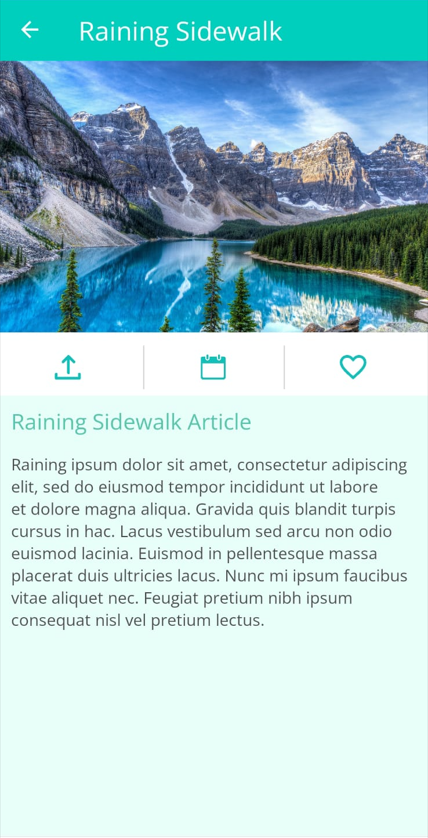
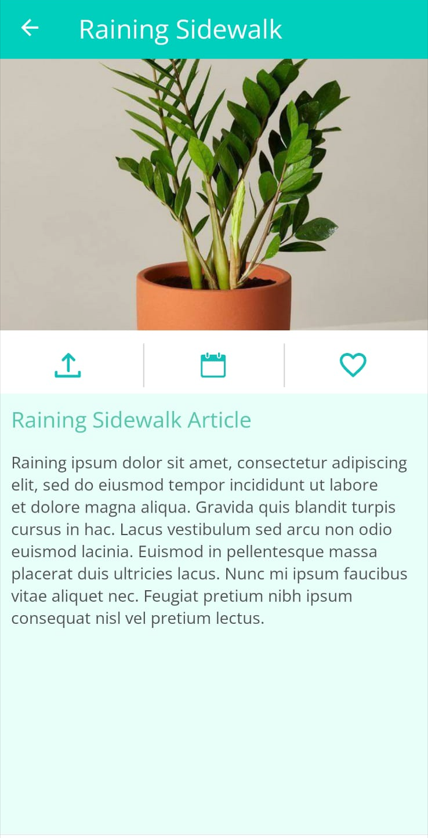
[FIX] Carrousel View

diff --git a/MusicApp/Views/SongDetailsPage.xaml b/MusicApp/Views/SongDetailsPage.xaml
@@ -10,16 +10,19 @@
     <ContentPage.Content>
         <Frame Padding="0" Margin="0,0" HeightRequest="190" WidthRequest="10" HasShadow="False">
             <StackLayout>
-                <CarouselView ItemsSource="{Binding CarrouselImages}" HeightRequest="500">
+                <CarouselView ItemsSource="{Binding SongImages}" HeightRequest="500" IndicatorView="indicatorView">
                     <CarouselView.ItemTemplate>
                         <DataTemplate>
                             <Image HorizontalOptions="CenterAndExpand" Source="{Binding}" Aspect="AspectFill"/>
                         </DataTemplate>
                     </CarouselView.ItemTemplate>
                 </CarouselView>
-                <RelativeLayout HorizontalOptions="FillAndExpand" VerticalOptions="Start">
-                    
-                </RelativeLayout>
+                <IndicatorView x:Name="indicatorView"
+                   Margin="0,0,0,0"
+                   IndicatorColor="LightGray"
+                   SelectedIndicatorColor="#10ad89"
+                   HorizontalOptions="Center">
+                </IndicatorView>
                 <Grid ColumnDefinitions="*" RowDefinitions="Auto" HorizontalOptions="CenterAndExpand">
                     <Grid Grid.Row="0" Grid.Column="0" HorizontalOptions="End" Margin="50,0,0,0">
                         <Image Source="fileUpload.png" Aspect="AspectFill" HeightRequest="40" WidthRequest="40" />

diff --git a/MusicApp/ViewModels/TodayViewModel.cs b/MusicApp/ViewModels/TodayViewModel.cs
@@ -44,6 +44,7 @@ namespace MusicApp.ViewModels
                 { "SongImage", selectedSong.Image },
                 { "SongSubtitle", selectedSong.Subtitle },
                 { "SongDescription", selectedSong.Description },
+                { "SongImages" , selectedSong.SongImages }
             };
 
             await NavigationService.NavigateAsync(NavigationConstants.SongDetails, navigationParameters);
@@ -64,10 +65,10 @@ namespace MusicApp.ViewModels
         {
             NewMusicList = new ObservableCollection<Song>
             {
-                new Song("Raining Sidewalk", "https://budsnblush.com/wp-content/uploads/2017/07/774db0706fde747de6a1e0965addc0d5_compress62.jpg", "5 mins", "Raining Sidewalk Article", "Raining ipsum dolor sit amet, consectetur adipiscing elit, sed do eiusmod tempor incididunt ut labore et dolore magna aliqua. Gravida quis blandit turpis cursus in hac. Lacus vestibulum sed arcu non odio euismod lacinia. Euismod in pellentesque massa placerat duis ultricies lacus. Nunc mi ipsum faucibus vitae aliquet nec. Feugiat pretium nibh ipsum consequat nisl vel pretium lectus."),
-                new Song("Spring Morning", "https://www.poynter.org/wp-content/uploads/2019/07/shutterstock_264132746-1500x1017.jpg", "10 mins", "Spring Morning Article", "Spring ipsum dolor sit amet, consectetur adipiscing elit, sed do eiusmod tempor incididunt ut labore et dolore magna aliqua. Gravida quis blandit turpis cursus in hac. Lacus vestibulum sed arcu non odio euismod lacinia. Euismod in pellentesque massa placerat duis ultricies lacus. Nunc mi ipsum faucibus vitae aliquet nec. Feugiat pretium nibh ipsum consequat nisl vel pretium lectus."),
-                new Song("First Smile", "https://juanbustos.com/wp-content/uploads/2020/01/jb-camgirl-1.jpg", "3 mins", "First Smile Inspiration", "First ipsum dolor sit amet, consectetur adipiscing elit, sed do eiusmod tempor incididunt ut labore et dolore magna aliqua. Gravida quis blandit turpis cursus in hac. Lacus vestibulum sed arcu non odio euismod lacinia. Euismod in pellentesque massa placerat duis ultricies lacus. Nunc mi ipsum faucibus vitae aliquet nec. Feugiat pretium nibh ipsum consequat nisl vel pretium lectus."),
-                new Song("Amazing Grace", "https://www.incimages.com/uploaded_files/image/1920x1080/getty_74956750_9709709704500404_43668.jpg", "15 mins", "The great Grace of God", "Grace ipsum dolor sit amet, consectetur adipiscing elit, sed do eiusmod tempor incididunt ut labore et dolore magna aliqua. Gravida quis blandit turpis cursus in hac. Lacus vestibulum sed arcu non odio euismod lacinia. Euismod in pellentesque massa placerat duis ultricies lacus. Nunc mi ipsum faucibus vitae aliquet nec. Feugiat pretium nibh ipsum consequat nisl vel pretium lectus.")
+                new Song("Raining Sidewalk", "https://budsnblush.com/wp-content/uploads/2017/07/774db0706fde747de6a1e0965addc0d5_compress62.jpg", "5 mins", "Raining Sidewalk Article", "Raining ipsum dolor sit amet, consectetur adipiscing elit, sed do eiusmod tempor incididunt ut labore et dolore magna aliqua. Gravida quis blandit turpis cursus in hac. Lacus vestibulum sed arcu non odio euismod lacinia. Euismod in pellentesque massa placerat duis ultricies lacus. Nunc mi ipsum faucibus vitae aliquet nec. Feugiat pretium nibh ipsum consequat nisl vel pretium lectus.", new string[]{ "https://budsnblush.com/wp-content/uploads/2017/07/774db0706fde747de6a1e0965addc0d5_compress62.jpg", "CarrouselImage1.png", "CarrouselImage2.png" }),
+                new Song("Spring Morning", "https://www.poynter.org/wp-content/uploads/2019/07/shutterstock_264132746-1500x1017.jpg", "10 mins", "Spring Morning Article", "Spring ipsum dolor sit amet, consectetur adipiscing elit, sed do eiusmod tempor incididunt ut labore et dolore magna aliqua. Gravida quis blandit turpis cursus in hac. Lacus vestibulum sed arcu non odio euismod lacinia. Euismod in pellentesque massa placerat duis ultricies lacus. Nunc mi ipsum faucibus vitae aliquet nec. Feugiat pretium nibh ipsum consequat nisl vel pretium lectus.", new string[]{ "https://www.poynter.org/wp-content/uploads/2019/07/shutterstock_264132746-1500x1017.jpg", "CarrouselImage1.png", "CarrouselImage2.png" }),
+                new Song("First Smile", "https://juanbustos.com/wp-content/uploads/2020/01/jb-camgirl-1.jpg", "3 mins", "First Smile Inspiration", "First ipsum dolor sit amet, consectetur adipiscing elit, sed do eiusmod tempor incididunt ut labore et dolore magna aliqua. Gravida quis blandit turpis cursus in hac. Lacus vestibulum sed arcu non odio euismod lacinia. Euismod in pellentesque massa placerat duis ultricies lacus. Nunc mi ipsum faucibus vitae aliquet nec. Feugiat pretium nibh ipsum consequat nisl vel pretium lectus.", new string[]{ "https://juanbustos.com/wp-content/uploads/2020/01/jb-camgirl-1.jpg", "CarrouselImage1.png", "CarrouselImage2.png" }),
+                new Song("Amazing Grace", "https://www.incimages.com/uploaded_files/image/1920x1080/getty_74956750_9709709704500404_43668.jpg", "15 mins", "The great Grace of God", "Grace ipsum dolor sit amet, consectetur adipiscing elit, sed do eiusmod tempor incididunt ut labore et dolore magna aliqua. Gravida quis blandit turpis cursus in hac. Lacus vestibulum sed arcu non odio euismod lacinia. Euismod in pellentesque massa placerat duis ultricies lacus. Nunc mi ipsum faucibus vitae aliquet nec. Feugiat pretium nibh ipsum consequat nisl vel pretium lectus.", new string[]{ "https://www.incimages.com/uploaded_files/image/1920x1080/getty_74956750_9709709704500404_43668.jpg", "CarrouselImage1.png", "CarrouselImage2.png" })
             };
         }
 

diff --git a/MusicApp/ViewModels/SongDetailsViewModel.cs b/MusicApp/ViewModels/SongDetailsViewModel.cs
@@ -12,13 +12,14 @@ namespace MusicApp.ViewModels
     {
         public SongDetailsViewModel(INavigationService navigationService) : base(navigationService) 
         {
-            CarrouselImages = new ObservableCollection<string> { "CarrouselImage1.jpg", "CarrouselImage2.jpg", "CarrouselImage3.jpg" };
+            //CarrouselImages = new ObservableCollection<string> { "CarrouselImage1.jpg", "CarrouselImage2.jpg", "CarrouselImage3.jpg" };
 
         }
         public string SongTitle { get; set; }
         public string SongImage { get; set; }
         public string SongSubtitle { get; set; }
         public string SongDescription { get; set; }
+        public string[] SongImages { get; set; }
 
         public override string Title => throw new NotImplementedException();
 
@@ -33,6 +34,7 @@ namespace MusicApp.ViewModels
             SongImage = parameters.GetValue<string>(nameof(SongImage));
             SongSubtitle = parameters.GetValue<string>(nameof(SongSubtitle));
             SongDescription = parameters.GetValue<string>(nameof(SongDescription));
+            SongImages = parameters.GetValue<string[]>(nameof(SongImages));
         }
 
         public ObservableCollection<string> CarrouselImages { get; set; }

diff --git a/MusicApp/Models/Song.cs b/MusicApp/Models/Song.cs
@@ -6,13 +6,14 @@ namespace MusicApp.Models
 {
     public class Song
     {
-        public Song(string title, string image, string duration, string subtitle, string description)
+        public Song(string title, string image, string duration, string subtitle, string description, string[] songImages)
         {
             Title = title;
             Image = image;
             Duration = duration;
             Subtitle = subtitle;
             Description = description;
+            SongImages = songImages;
         }
 
         public string Title { get; }
